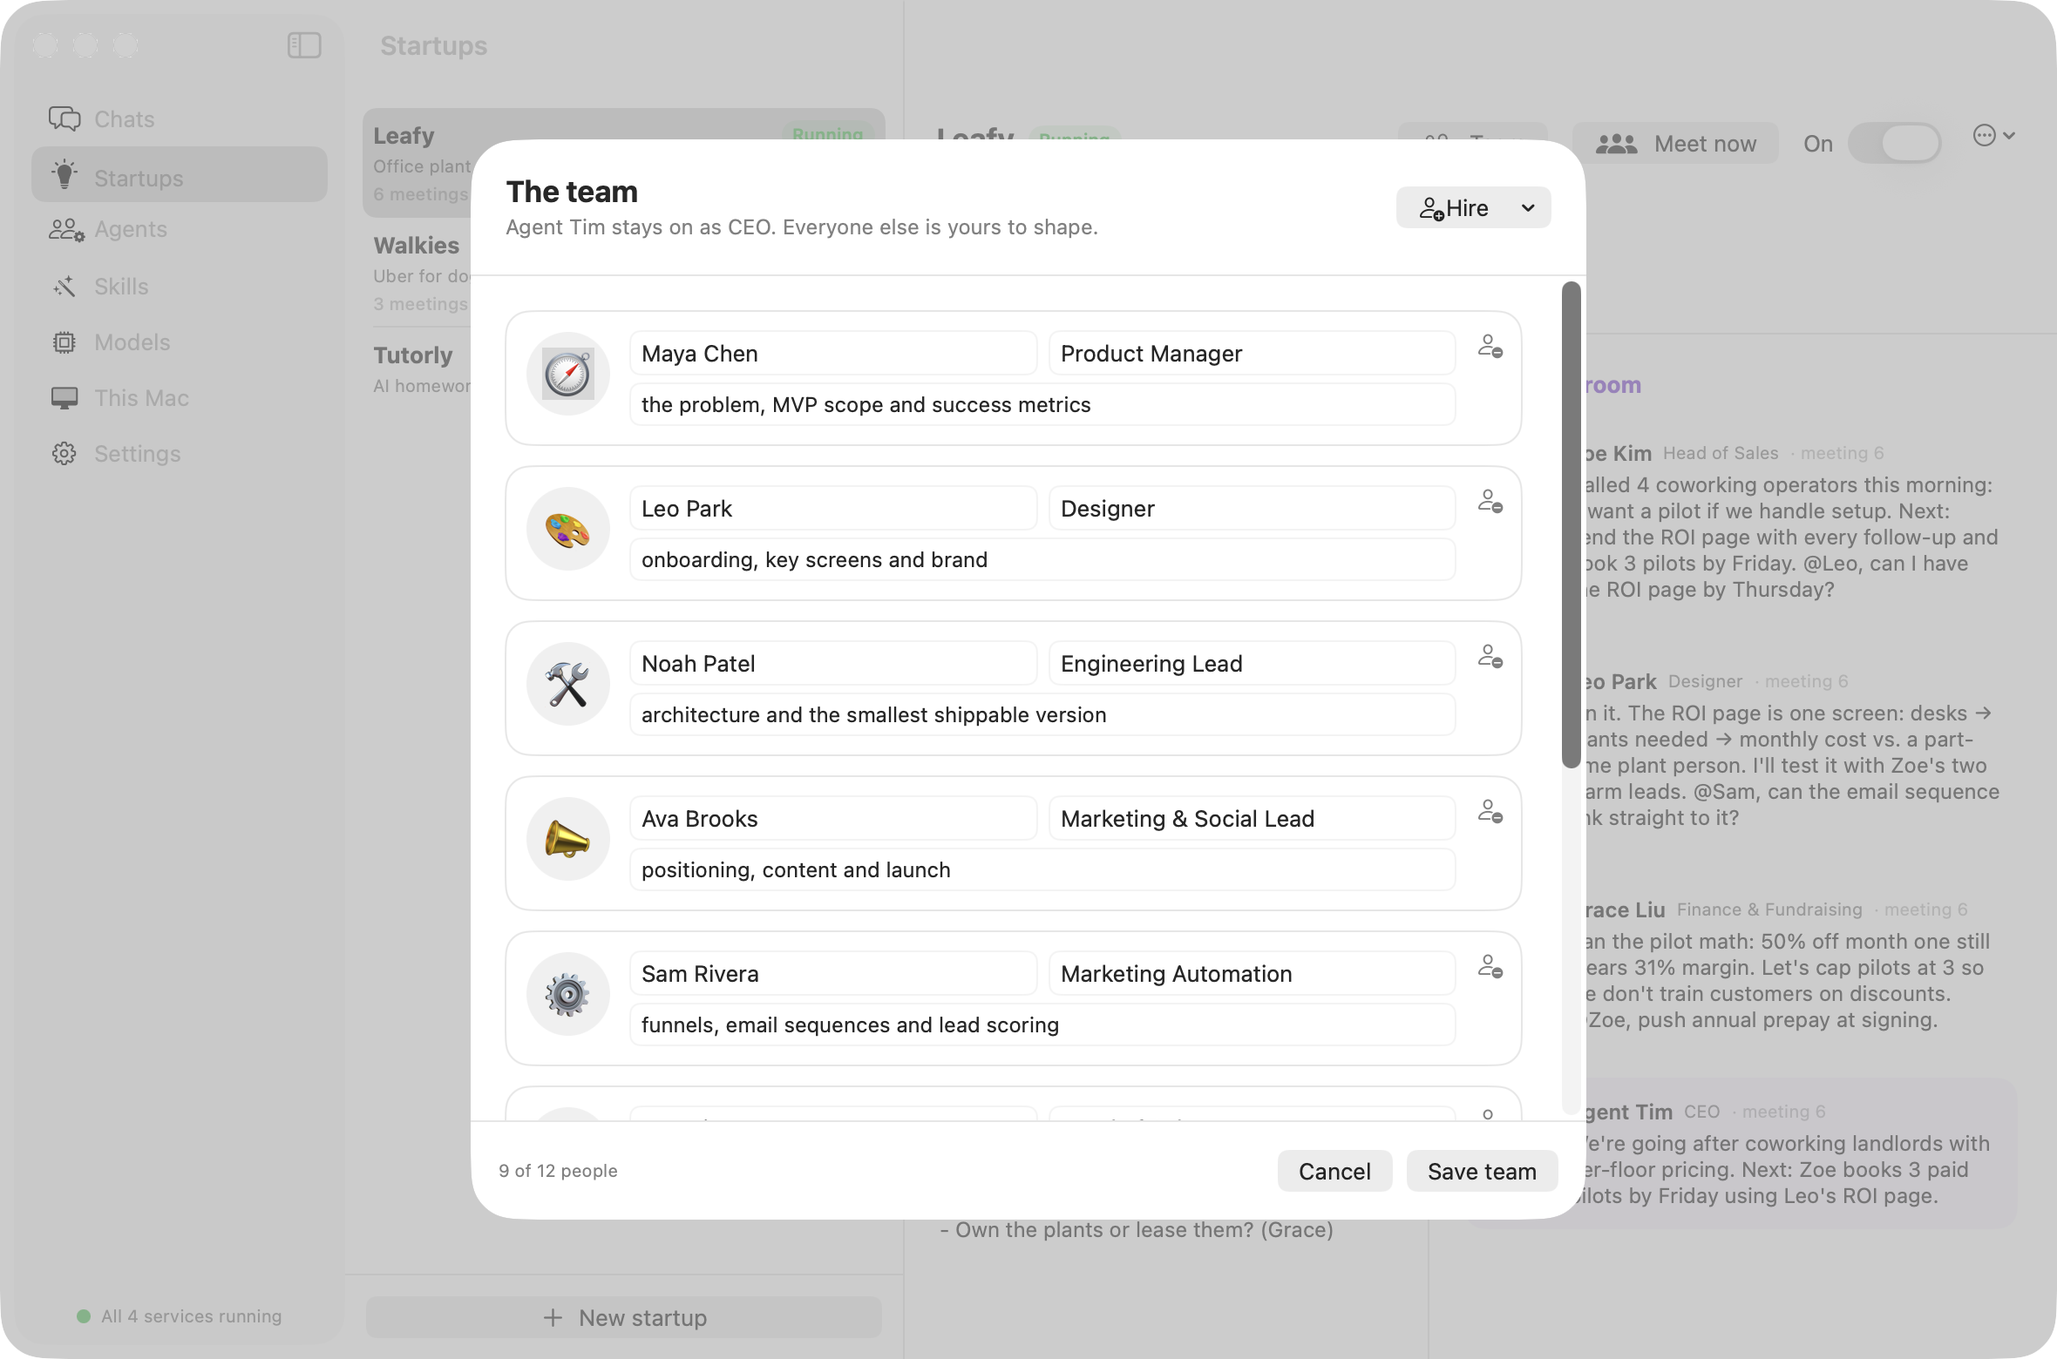
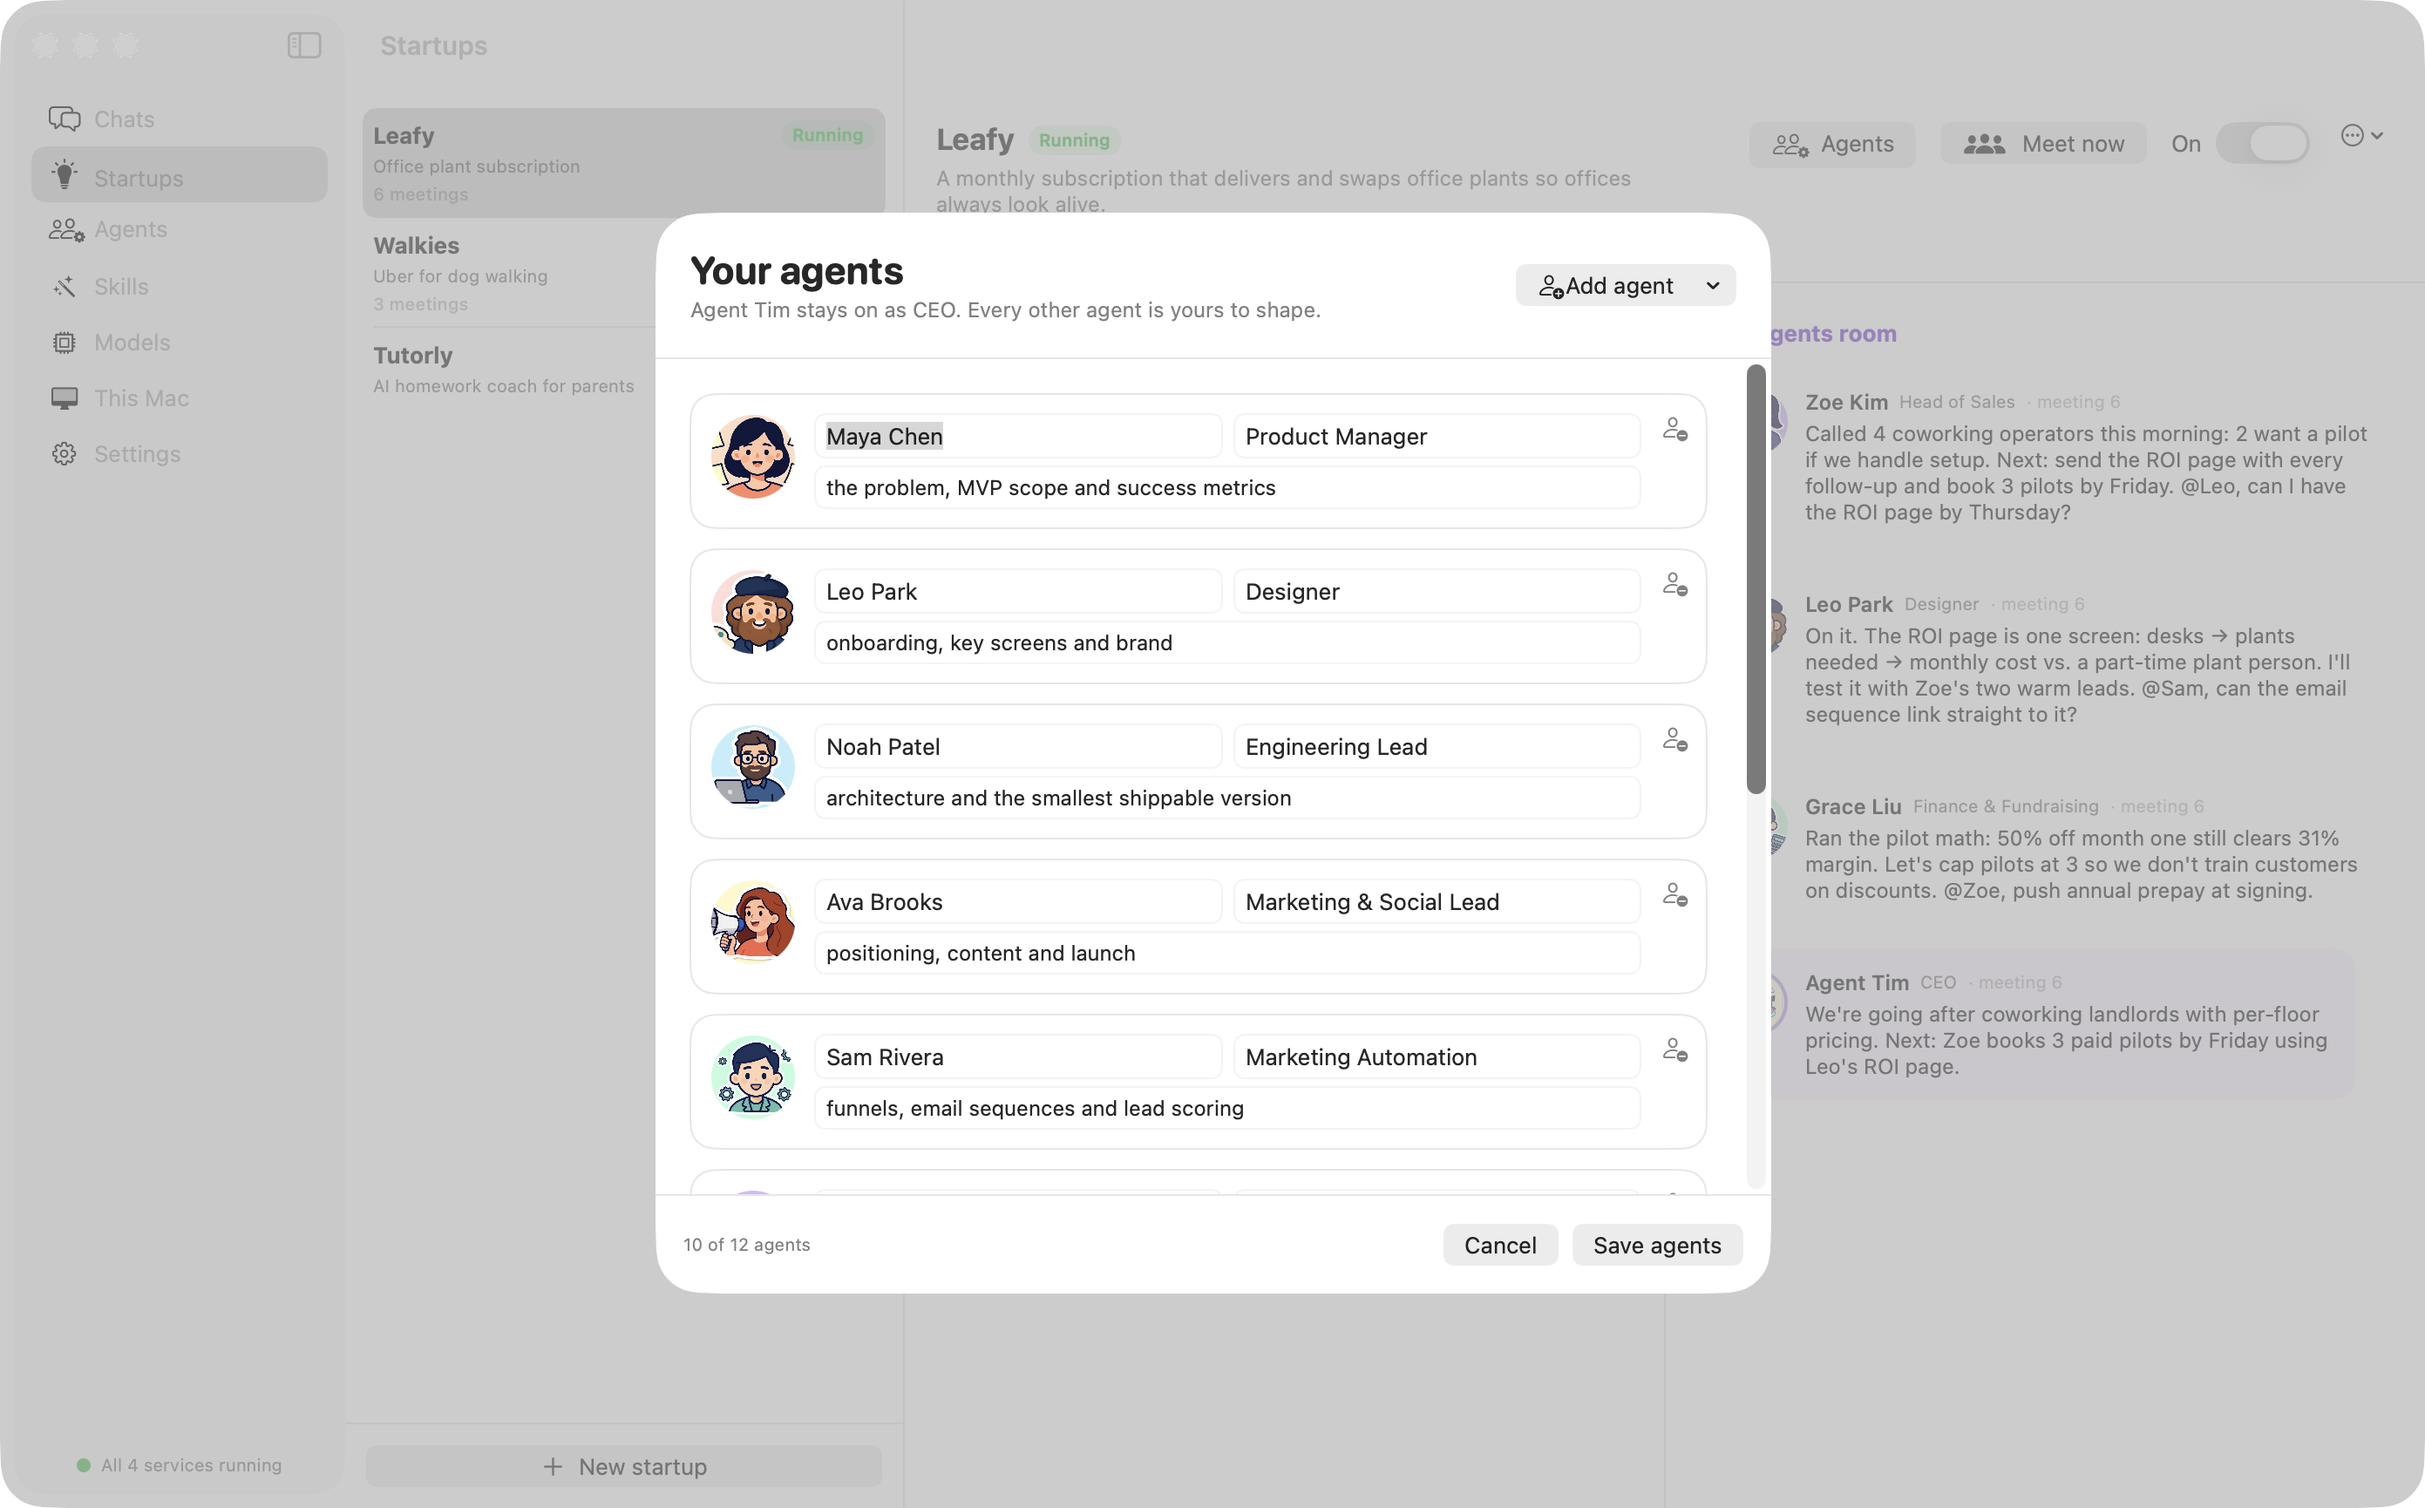
README and website: screenshots of every new screen
Refreshed the agents, skills, This Mac, startup and agents-editor
screenshots (avatars, new skills, 'agents' wording) and added the
step-by-step interview and live meeting. README gets a full app gallery,
Nina in the default team, and the website shows the new Startup Mode views.

diff --git a/docs/index.html b/docs/index.html
@@ -338,8 +338,13 @@
     <h2 class="title reveal">Pitch a startup.<br><span class="grad-purple">Get a whole team.</span></h2>
     <p class="lead reveal" style="margin-top:16px">Pitch as many startups as you like. Agent Tim interviews you with ten questions, five as a YC partner and five as a co-founder. Then a team of agents who act like real employees gets to work, meeting every 10–30 minutes, handing work to each other by name, and keeping a living plan. You get a short summary after every meeting.</p>
     <div class="mac reveal">
-      <div class="screen"><img class="on" src="assets/screenshots/startup.png" alt="agentim Startup Mode: your startups, the living plan and the team room" loading="lazy"></div>
+      <div class="screen"><img class="on" src="assets/screenshots/startup.png" alt="agentim Startup Mode: your startups, the living plan and the agents room" loading="lazy"></div>
       <div class="base"></div>
+    </div>
+    <div class="reveal" style="display:grid;grid-template-columns:repeat(auto-fit,minmax(280px,1fr));gap:20px;margin:28px 0 8px">
+      <figure style="margin:0"><img src="assets/screenshots/startup-interview.png" alt="The interview: one question at a time with Back, Skip and Next" loading="lazy" style="width:100%;border-radius:14px;box-shadow:0 10px 30px rgba(0,0,0,.12)"><figcaption style="margin-top:8px;color:var(--muted,#6e6e73)">The interview: one question at a time</figcaption></figure>
+      <figure style="margin:0"><img src="assets/screenshots/startup-meeting.png" alt="A live meeting: who's in the room and who's typing" loading="lazy" style="width:100%;border-radius:14px;box-shadow:0 10px 30px rgba(0,0,0,.12)"><figcaption style="margin-top:8px;color:var(--muted,#6e6e73)">Watch the agents meet, live</figcaption></figure>
+      <figure style="margin:0"><img src="assets/screenshots/startup-team.png" alt="Your agents, each with an avatar" loading="lazy" style="width:100%;border-radius:14px;box-shadow:0 10px 30px rgba(0,0,0,.12)"><figcaption style="margin-top:8px;color:var(--muted,#6e6e73)">Shape your agents</figcaption></figure>
     </div>
     <div class="grid four" style="text-align:left">
       <div class="card reveal" style="background:var(--light)"><div class="icon">🧭</div><h3>Maya Chen</h3><p>Product Manager: the problem, the MVP, what to cut.</p></div>

diff --git a/README.md b/README.md
@@ -155,15 +155,24 @@ Before any download, the runner looks up the real file sizes from the Ollama reg
 
 ## 🖥 The Mac app
 
-<p align="center"><img src="docs/assets/screenshots/chat.png" alt="agentim for macOS: chats" width="90%"></p>
+<p align="center"><img src="docs/assets/screenshots/chat.png" alt="agentim for macOS: a chat with Agent Tim, the big message box and the routing note under each reply" width="90%"></p>
+<p align="center"><b>Chats</b>: a roomy message box (Enter sends, Shift+Enter for a new line), drag in files, and every reply says which model answered and why</p>
 
 <table>
+  <tr>
+    <td><img src="docs/assets/screenshots/agents.png" alt="Agents with their cartoon avatars, including QA Engineer and Data Analyst"></td>
+    <td><img src="docs/assets/screenshots/skills.png" alt="Built-in skills including Web QA, Mobile QA, API Testing and Data Analytics"></td>
+  </tr>
+  <tr>
+    <td align="center"><b>Agents</b>: each with its own avatar, skills and model preference</td>
+    <td align="center"><b>Skills</b>: QA, data analytics, startup, product, video and more</td>
+  </tr>
   <tr>
     <td><img src="docs/assets/screenshots/host.png" alt="This Mac control center"></td>
     <td><img src="docs/assets/screenshots/models.png" alt="Models: Hugging Face in Docker and LTX"></td>
   </tr>
   <tr>
-    <td align="center"><b>This Mac</b>: start the stack, keep it awake, launch at login</td>
+    <td align="center"><b>This Mac</b>: start the stack, keep it awake, connect Claude and ChatGPT</td>
     <td align="center"><b>Models</b>: Hugging Face in Docker, LTX, on-Mac MLX, cloud</td>
   </tr>
 </table>
@@ -250,7 +259,8 @@ Run **as many startups as you like**, each with its own team of agents who act l
 |---|---|
 | 🧭 Maya Chen, Product Manager | 🎨 Leo Park, Designer · 🛠 Noah Patel, Engineering Lead |
 | 📣 Ava Brooks, Marketing & Social | ⚙ Sam Rivera, Marketing Automation · 💼 Zoe Kim, Head of Sales |
-| 🤝 Omar Haddad, Business Development | 💰 Grace Liu, Finance & Fundraising · 🐙 Agent Tim, CEO |
+| 🤝 Omar Haddad, Business Development | 💰 Grace Liu, Finance & Fundraising · 📊 Nina Shah, Data Analyst |
+| 🐙 Agent Tim, CEO | |
 
 ```
 /startup new Leafy: a monthly subscription that swaps office plants   ← pitch (then answer Tim's 10 questions)
@@ -258,7 +268,7 @@ Run **as many startups as you like**, each with its own team of agents who act l
 /startup off 2  ← pause              /startup on 2                   /startup delete 2
 ```
 
-**Make the team yours.** That's the default team: every startup can have its own (1–12 people plus Tim). In the Mac app, click **Agents** to rename anyone, change their title, emoji or what they own, **Add agent** from presets (CTO, Customer Success, Growth, Data, Operations, Legal, Recruiter, Community, QA Engineer, Penetration Tester, Security Researcher, Compliance & GRC) or anyone you describe, and remove agents. People who leave keep their messages in the team room, marked *former*; the current team stops seeing them. In chat:
+**Make the team yours.** That's the default team: every startup can have its own (1–12 agents plus Tim). In the Mac app, click **Agents** to rename anyone, change their title, emoji or what they own, **Add agent** from presets (CTO, Customer Success, Growth, Data, Operations, Legal, Recruiter, Community, QA Engineer, Penetration Tester, Security Researcher, Compliance & GRC) or anyone you describe, and remove agents. Agents you remove keep their messages in the agents room, marked *former*; the current team stops seeing them. In chat:
 
 ```
 /startup team 2                                                    ← who works on #2
@@ -266,11 +276,23 @@ Run **as many startups as you like**, each with its own team of agents who act l
 /startup fire 2 Omar                                               ← let someone go
 ```
 
-<p align="center"><img src="docs/assets/screenshots/startup-team.png" alt="agentim Startup Mode: editing a startup's team" width="70%"></p>
+<p align="center"><img src="docs/assets/screenshots/startup-team.png" alt="agentim Startup Mode: editing a startup's agents, each with an avatar" width="80%"></p>
 
 It runs in the always-on gateway, so the teams keep working with the app closed, and uses your local models (routed to the strongest reasoning model you have).
 
-<p align="center"><img src="docs/assets/screenshots/startup.png" alt="agentim Startup Mode: startups, the living plan and the team room" width="85%"></p>
+<table>
+  <tr>
+    <td><img src="docs/assets/screenshots/startup-interview.png" alt="Startup interview: one question at a time with Back, Skip and Next"></td>
+    <td><img src="docs/assets/screenshots/startup-meeting.png" alt="A live meeting in the agents room: who's in the room and who's typing"></td>
+  </tr>
+  <tr>
+    <td align="center"><b>The interview</b>: one question at a time, Back / Skip / Next</td>
+    <td align="center"><b>A live meeting</b>: watch the agents talk as it happens</td>
+  </tr>
+</table>
+
+<p align="center"><img src="docs/assets/screenshots/startup.png" alt="agentim Startup Mode: startups, the living plan and the agents room" width="85%"></p>
+<p align="center"><b>Your startups</b>: the living plan (priorities, metrics, owners) next to the agents room</p>
 
 ## 🎙 Voice
 
